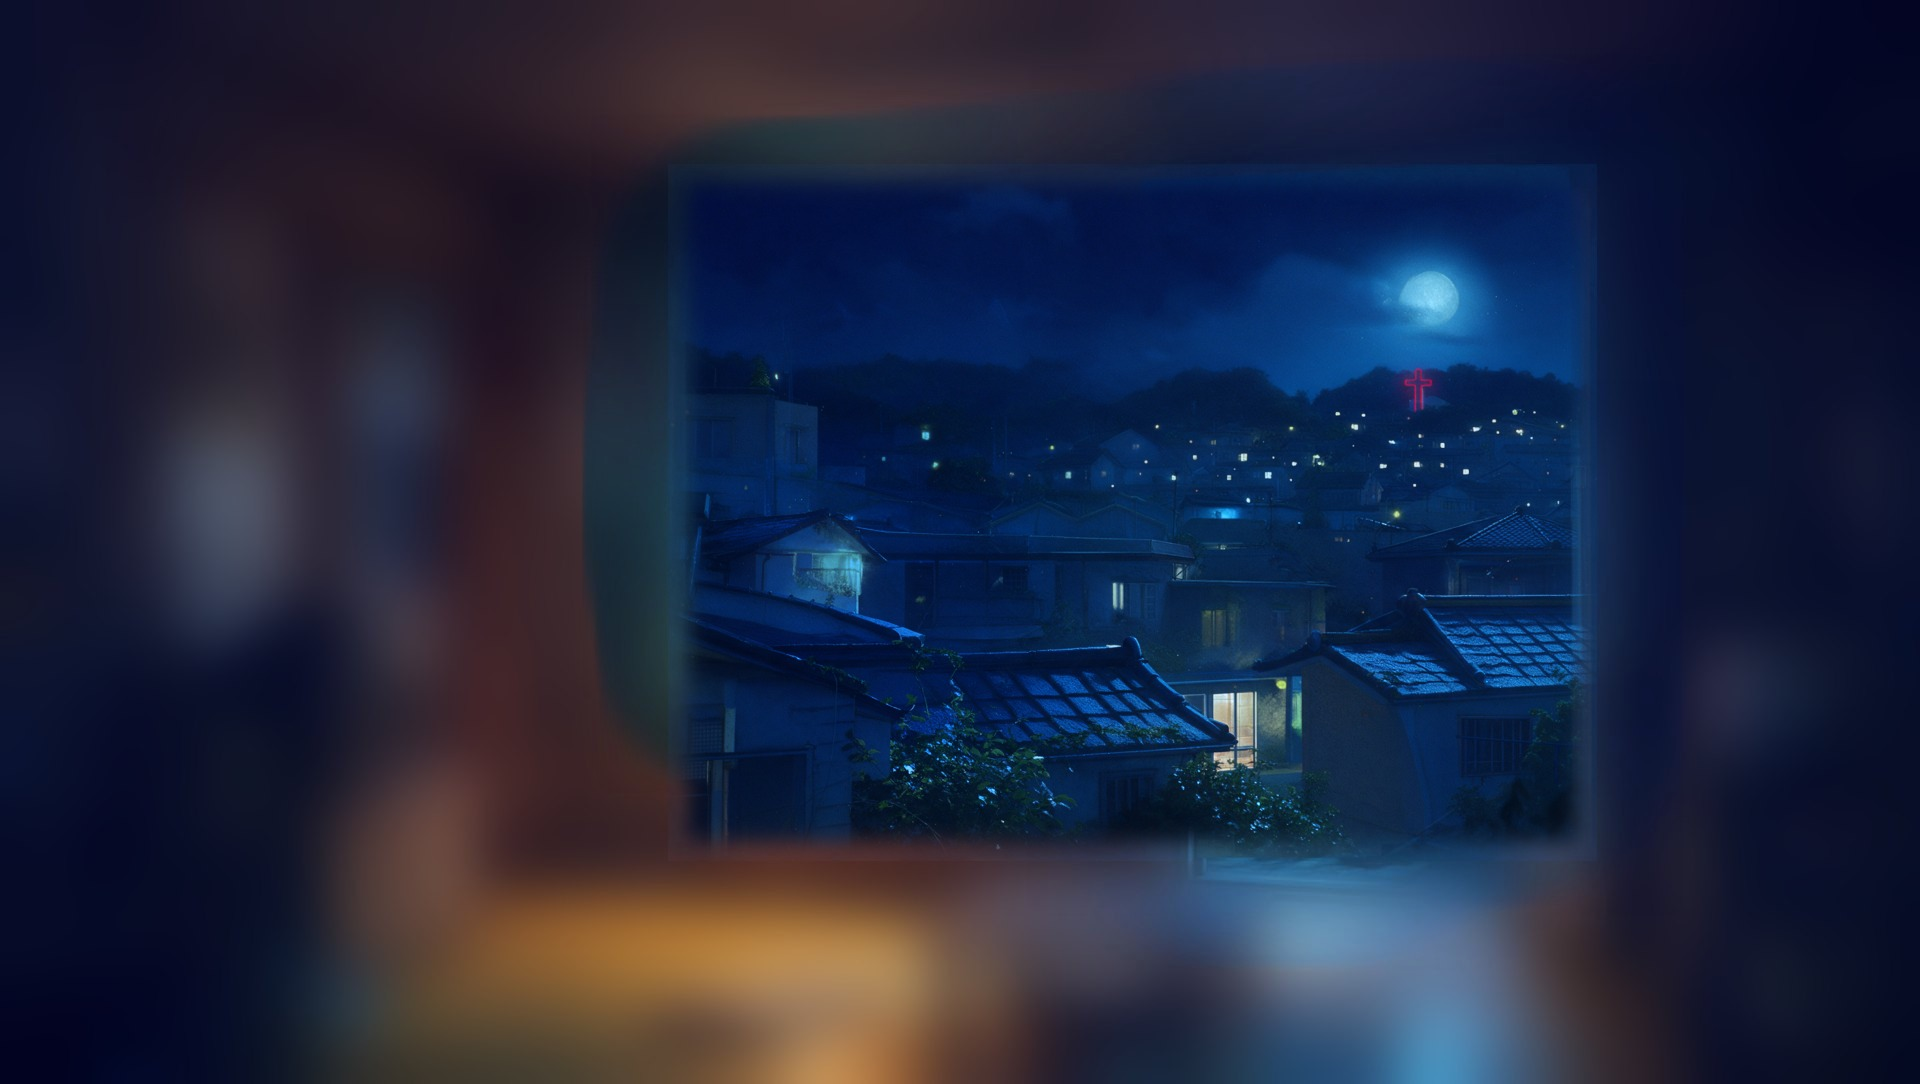
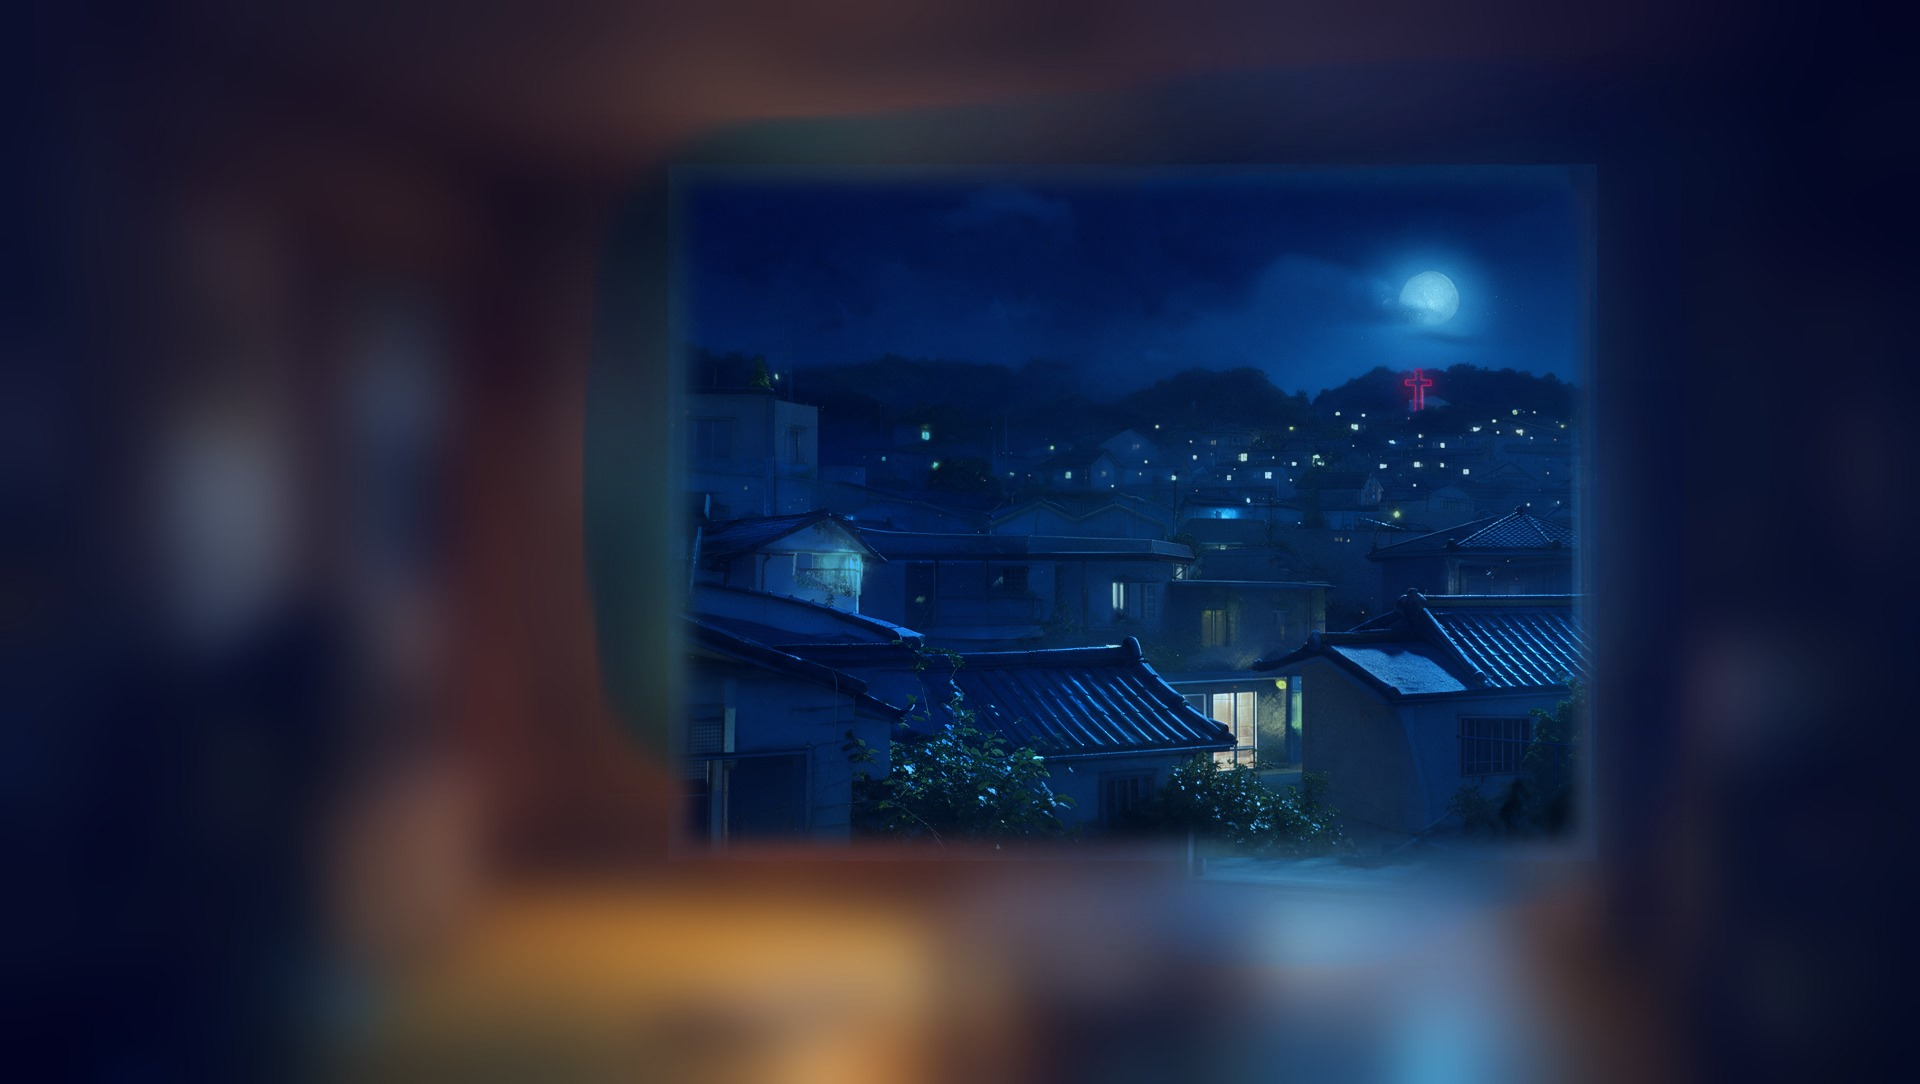
Korea: outside view with cleaned roofs (no grid artifact)
Claude-Session: https://claude.ai/code/session_01WmePPEVtycNtDwciTC66yT

Changed region(s): [[0.4688, 0.6089, 0.625, 0.7002], [0.7188, 0.548, 0.8438, 0.6393], [0.6875, 0.5784, 0.7188, 0.6089]]

diff --git a/public/index.html b/public/index.html
@@ -449,7 +449,7 @@ function framesFor(key){if(!LABFR||!LABFR[key])return null;if(FRM[key])return FR
     return Promise.all([...[...Array(j.n).keys()].flatMap(i=>[loadTex(dir+'/on_'+id(i)+'.jpg'),loadTex(dir+'/off_'+id(i)+'.jpg')]),
       ...[...Array(j.n-1).keys()].flatMap(i=>[loadTex(dir+'/fab_'+id(i)+'.png'),loadTex(dir+'/fba_'+id(i)+'.png')])])}).then(a=>{const m=2*F.n,A=a.slice(0,m),B=a.slice(m);
       F.on=A.filter((_,i)=>i%2==0);F.off=A.filter((_,i)=>i%2==1);F.fab=B.filter((_,i)=>i%2==0);F.fba=B.filter((_,i)=>i%2==1);F.ready=true}).catch(()=>{});return F}
-function texFor(key){if(!cache.has(key))cache.set(key,Promise.all(FILES.map(n=>loadTex(((LAB&&LAB[key])||key)+'/'+n+(/^(out_|mask|plate_|maps|cup_|shadow)/.test(n)?'?v=36':'')))).then(a=>Object.fromEntries(FILES.map((n,i)=>[n.split('.')[0],a[i]]))));return cache.get(key)}
+function texFor(key){if(!cache.has(key))cache.set(key,Promise.all(FILES.map(n=>loadTex(((LAB&&LAB[key])||key)+'/'+n+(/^(out_|mask|plate_|maps|cup_|shadow)/.test(n)?'?v=37':'')))).then(a=>Object.fromEntries(FILES.map((n,i)=>[n.split('.')[0],a[i]]))));return cache.get(key)}
 function evict(keep){for(const [k,p] of cache)if(!keep.includes(k)){cache.delete(k);p.then(T=>Object.values(T).forEach(t=>t.dispose()))}}
 const tvCan=document.createElement('canvas');tvCan.width=128;tvCan.height=96;const tvCtx=tvCan.getContext('2d');
 const tTV=new THREE.CanvasTexture(tvCan);tTV.minFilter=THREE.LinearFilter;tTV.generateMipmaps=false;

diff --git a/public/lab.html b/public/lab.html
@@ -450,7 +450,7 @@ function framesFor(key){if(!LABFR||!LABFR[key])return null;if(FRM[key])return FR
     return Promise.all([...[...Array(j.n).keys()].flatMap(i=>[loadTex(dir+'/on_'+id(i)+'.jpg'),loadTex(dir+'/off_'+id(i)+'.jpg')]),
       ...[...Array(j.n-1).keys()].flatMap(i=>[loadTex(dir+'/fab_'+id(i)+'.png'),loadTex(dir+'/fba_'+id(i)+'.png')])])}).then(a=>{const m=2*F.n,A=a.slice(0,m),B=a.slice(m);
       F.on=A.filter((_,i)=>i%2==0);F.off=A.filter((_,i)=>i%2==1);F.fab=B.filter((_,i)=>i%2==0);F.fba=B.filter((_,i)=>i%2==1);F.ready=true}).catch(()=>{});return F}
-function texFor(key){if(!cache.has(key))cache.set(key,Promise.all(FILES.map(n=>loadTex(((LAB&&LAB[key])||key)+'/'+n+(/^(out_|mask|plate_|maps|cup_|shadow)/.test(n)?'?v=36':'')))).then(a=>Object.fromEntries(FILES.map((n,i)=>[n.split('.')[0],a[i]]))));return cache.get(key)}
+function texFor(key){if(!cache.has(key))cache.set(key,Promise.all(FILES.map(n=>loadTex(((LAB&&LAB[key])||key)+'/'+n+(/^(out_|mask|plate_|maps|cup_|shadow)/.test(n)?'?v=37':'')))).then(a=>Object.fromEntries(FILES.map((n,i)=>[n.split('.')[0],a[i]]))));return cache.get(key)}
 function evict(keep){for(const [k,p] of cache)if(!keep.includes(k)){cache.delete(k);p.then(T=>Object.values(T).forEach(t=>t.dispose()))}}
 const tvCan=document.createElement('canvas');tvCan.width=128;tvCan.height=96;const tvCtx=tvCan.getContext('2d');
 const tTV=new THREE.CanvasTexture(tvCan);tTV.minFilter=THREE.LinearFilter;tTV.generateMipmaps=false;
